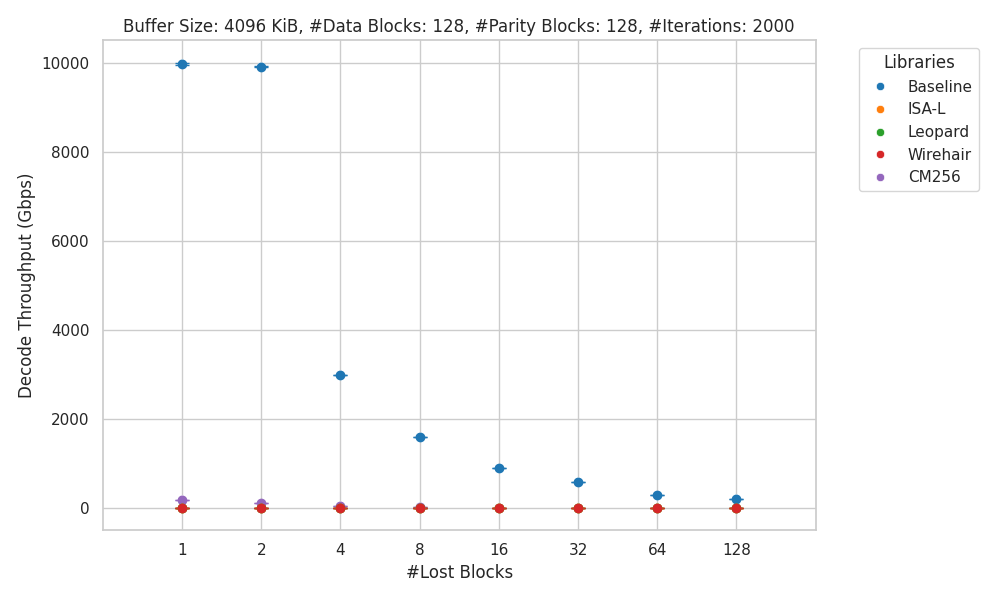
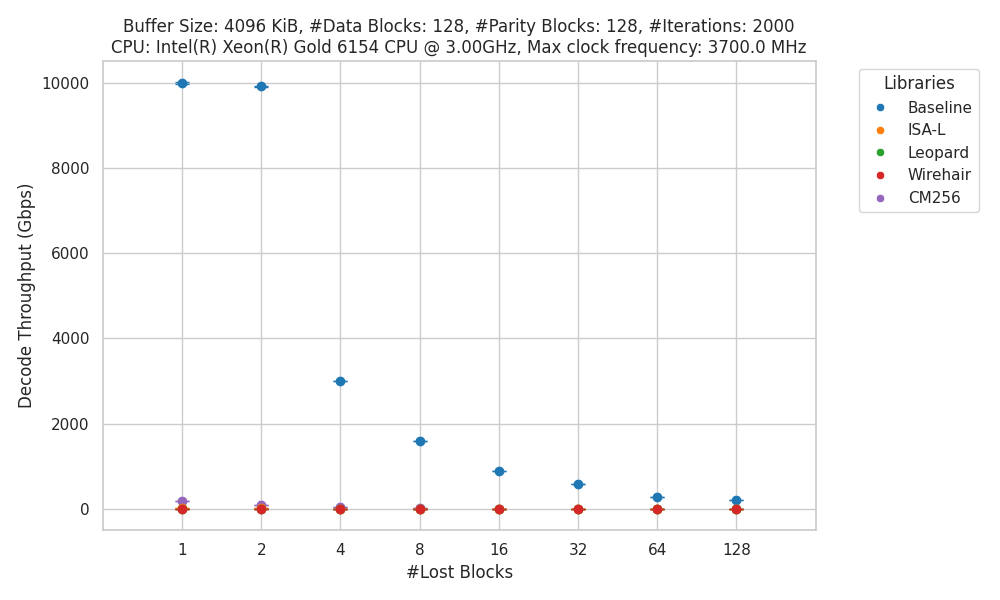
Properly displaying cpu info

diff --git a/scripts/plot_benchmark_results.py b/scripts/plot_benchmark_results.py
@@ -1,31 +1,56 @@
 import os
+import cpuinfo
+import psutil
 import pandas as pd
 import matplotlib.pyplot as plt
 import seaborn as sns
 import math
 import numpy as np
-from typing import Dict
+from typing import Dict, Any
+from collections import namedtuple
 
 # File / directory paths
 SCRIPT_DIR = os.path.dirname(os.path.abspath(__file__))
 INPUT_FILE = os.path.join(SCRIPT_DIR, "../results/raw/benchmark_results_first_2000_it.csv")
 LIN_OUTPUT_DIR = os.path.join(SCRIPT_DIR, "../results/processed/linear/")
 LOG_OUTPUT_DIR = os.path.join(SCRIPT_DIR, "../results/processed/log/")
-
+CPUInfo = namedtuple("CPUInfo", ["model_name", "clock_speed_MHz", "l1_cache_size_KiB", "l2_cache_size_KiB", "l3_cache_size_KiB"])
 
 def ensure_output_directories() -> None:
   """Ensure the output directory exists."""
   os.makedirs(LIN_OUTPUT_DIR, exist_ok=True)
   os.makedirs(LOG_OUTPUT_DIR, exist_ok=True)
 
-def get_plot_title(df: pd.DataFrame, plot_id: int) -> str:
+def get_cpu_info() -> CPUInfo:
+  """Get CPU information."""
+  info = cpuinfo.get_cpu_info()
+  model_name = info["brand_raw"]
+
+  #clock speed in MHz 
+  clock_speed_MHz = float(psutil.cpu_freq().max if psutil.cpu_freq().max else "0")
+
+  #L1, l2, l3 Cache sizes
+  l1_cache_size = int(info.get("l1_data_cache_size", "0")) // 1024
+  l2_cache_size = int(info.get("l2_cache_size", "0")) // 1024
+  l3_cache_size = int(info.get("l3_cache_size", "0")) // 1024
+
+  return CPUInfo(model_name=model_name,
+                 clock_speed_MHz=clock_speed_MHz,
+                 l1_cache_size_KiB=l1_cache_size,
+                 l2_cache_size_KiB=l2_cache_size,
+                 l3_cache_size_KiB=l3_cache_size)
+
+def get_plot_title(df: pd.DataFrame, plot_id: int, cpu_info: CPUInfo) -> str:
   """Generate a  plot title containing all the constant parameters."""
   first_row = df.iloc[0]
+  cpu_title = f"CPU: {cpu_info.model_name}, Max clock frequency: {cpu_info.clock_speed_MHz} MHz"
+
   titles = {
-    0: f"#Data Blocks: {first_row['num_data_blocks']}, #Redundancy Ratio: {first_row['redundancy_ratio']}, #Lost Blocks: {first_row['num_lost_blocks']}, #Iterations: {first_row['num_iterations']}",
-    1: f"Buffer Size: {first_row['tot_data_size_KiB']} KiB, #Data Blocks: {first_row['num_data_blocks']}, #Lost Blocks: {first_row['num_lost_blocks']}, #Iterations: {first_row['num_iterations']}",
-    2: f"Buffer Size: {first_row['tot_data_size_KiB']} KiB, #Data Blocks: {first_row['num_data_blocks']}, #Parity Blocks: {int(first_row['num_parity_blocks'])}, #Iterations: {first_row['num_iterations']}"
+    0: f"#Data Blocks: {first_row['num_data_blocks']}, #Redundancy Ratio: {first_row['redundancy_ratio']}, #Lost Blocks: {first_row['num_lost_blocks']}, #Iterations: {first_row['num_iterations']}\n{cpu_title}",
+    1: f"Buffer Size: {first_row['tot_data_size_KiB']} KiB, #Data Blocks: {first_row['num_data_blocks']}, #Lost Blocks: {first_row['num_lost_blocks']}, #Iterations: {first_row['num_iterations']}\n{cpu_title}",
+    2: f"Buffer Size: {first_row['tot_data_size_KiB']} KiB, #Data Blocks: {first_row['num_data_blocks']}, #Parity Blocks: {int(first_row['num_parity_blocks'])}, #Iterations: {first_row['num_iterations']}\n{cpu_title}"
   }
+
   return titles.get(plot_id, "ERROR: Invalid plot_id")
 
 
@@ -35,7 +60,7 @@ def make_scatter_plot(dfs: Dict[int, pd.DataFrame], x_col: str, y_col: str, x_la
   sns.set_theme(style="whitegrid")
   plt.figure(figsize=(10, 6))
   output_directory = LIN_OUTPUT_DIR if y_scale == "linear" else LOG_OUTPUT_DIR
-
+  cpu_info = get_cpu_info()  
 
   sns.scatterplot(data=df, x=x_col, y=y_col, hue="name", palette="tab10")
   plt.xlabel(x_label, fontsize=12)
@@ -45,13 +70,13 @@ def make_scatter_plot(dfs: Dict[int, pd.DataFrame], x_col: str, y_col: str, x_la
 
   if (x_col == "tot_data_size_KiB"):
     # Plot the cache sizes
-    l2_cache_size = 1024 # 1024 KiB
-    l3_cache_size = 25344 # 25344 KiB
+    l2_cache_size = cpu_info.l2_cache_size_KiB
+    l3_cache_size = cpu_info.l3_cache_size_KiB
     plt.axvline(x=l2_cache_size, color="red", linestyle="--", label="L2 Cache Size\n" + f"({l2_cache_size} KiB)")
     plt.axvline(x=l3_cache_size, color="green", linestyle="--", label="L3 Cache Size\n" + f"({l3_cache_size} KiB)")
-
+    
   plt.legend(title="Libraries", bbox_to_anchor=(1.05, 1), loc="upper left")
-  plt.title(get_plot_title(df, plot_id), fontsize=12)
+  plt.title(get_plot_title(df, plot_id, cpu_info), fontsize=12)
 
   
   
